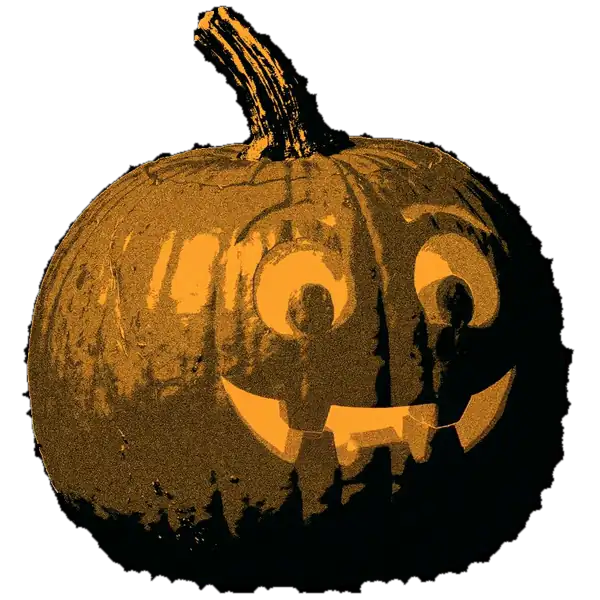
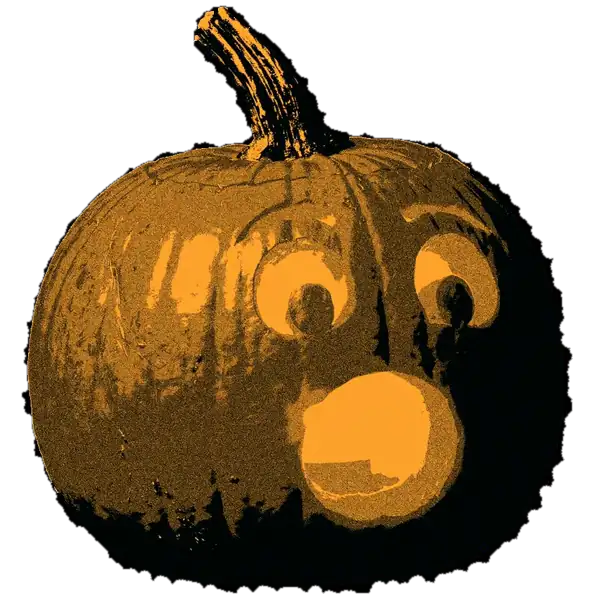
Удивлённая тыква тоже жуёт без еды
Новое жевание для surprise: 18 кадров, кадры с едой выкинуты. FRAMES_V=4, кэш стилей и скрипта v24.

Claude-Session: https://claude.ai/code/session_01NpvtHWtRd2bLmGWaDWyB7T

diff --git a/app.js b/app.js
@@ -28,10 +28,10 @@
   //    last frames match the PNG, so loops and hand-offs don't jump.
   //    A mood without frames for an action falls back to its PNG plus the CSS animation.
   const FRAMES = {
-    "base-idle": 40, "surprise-idle": 39, "surprise-eat": 15, "nerd-idle": 40, "nerd-eat": 17,
+    "base-idle": 40, "surprise-idle": 39, "surprise-eat": 18, "nerd-idle": 40, "nerd-eat": 17,
     "happy-idle": 39, "happy-eat": 16, "happy-final": 40, "disagree-idle": 40, "disagree-eat": 18,
   };
-  const FRAMES_V = 3; // bump when the frame files change, so browsers don't keep old ones
+  const FRAMES_V = 4; // bump when the frame files change, so browsers don't keep old ones
   const clip = (name) => ({ dir: `assets/frames/${name}/`, n: FRAMES[name] });
   const PUMPKIN = {
     base:     { image: "assets/pumpkin-base.png", idle: clip("base-idle") },

diff --git a/index.html b/index.html
@@ -4,7 +4,7 @@
   <meta charset="utf-8">
   <meta name="viewport" content="width=device-width, initial-scale=1">
   <title>Заколдованная тыква — прототип</title>
-  <link rel="stylesheet" href="styles.css?v=23">
+  <link rel="stylesheet" href="styles.css?v=24">
 </head>
 <body>
 <div class="viewport">
@@ -101,6 +101,6 @@
 
   </div>
 </div>
-<script src="app.js?v=23"></script>
+<script src="app.js?v=24"></script>
 </body>
 </html>
